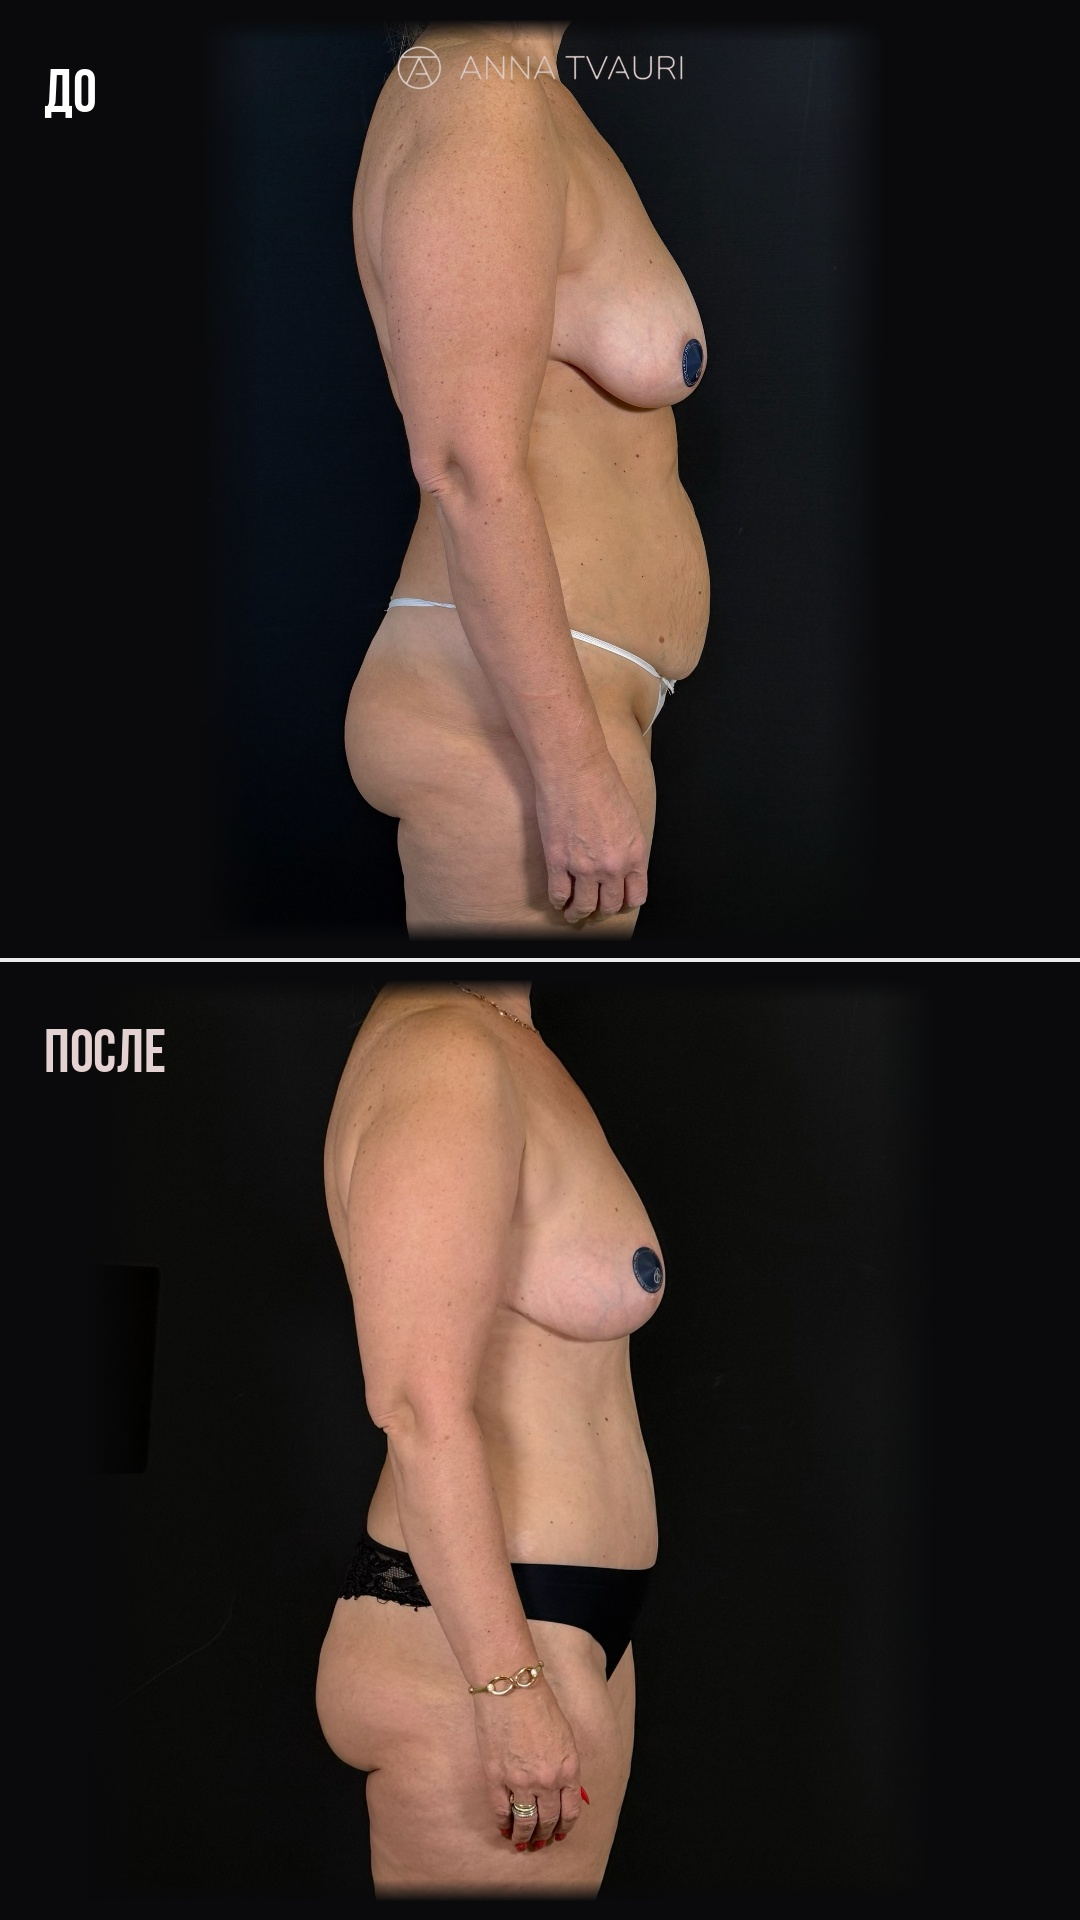
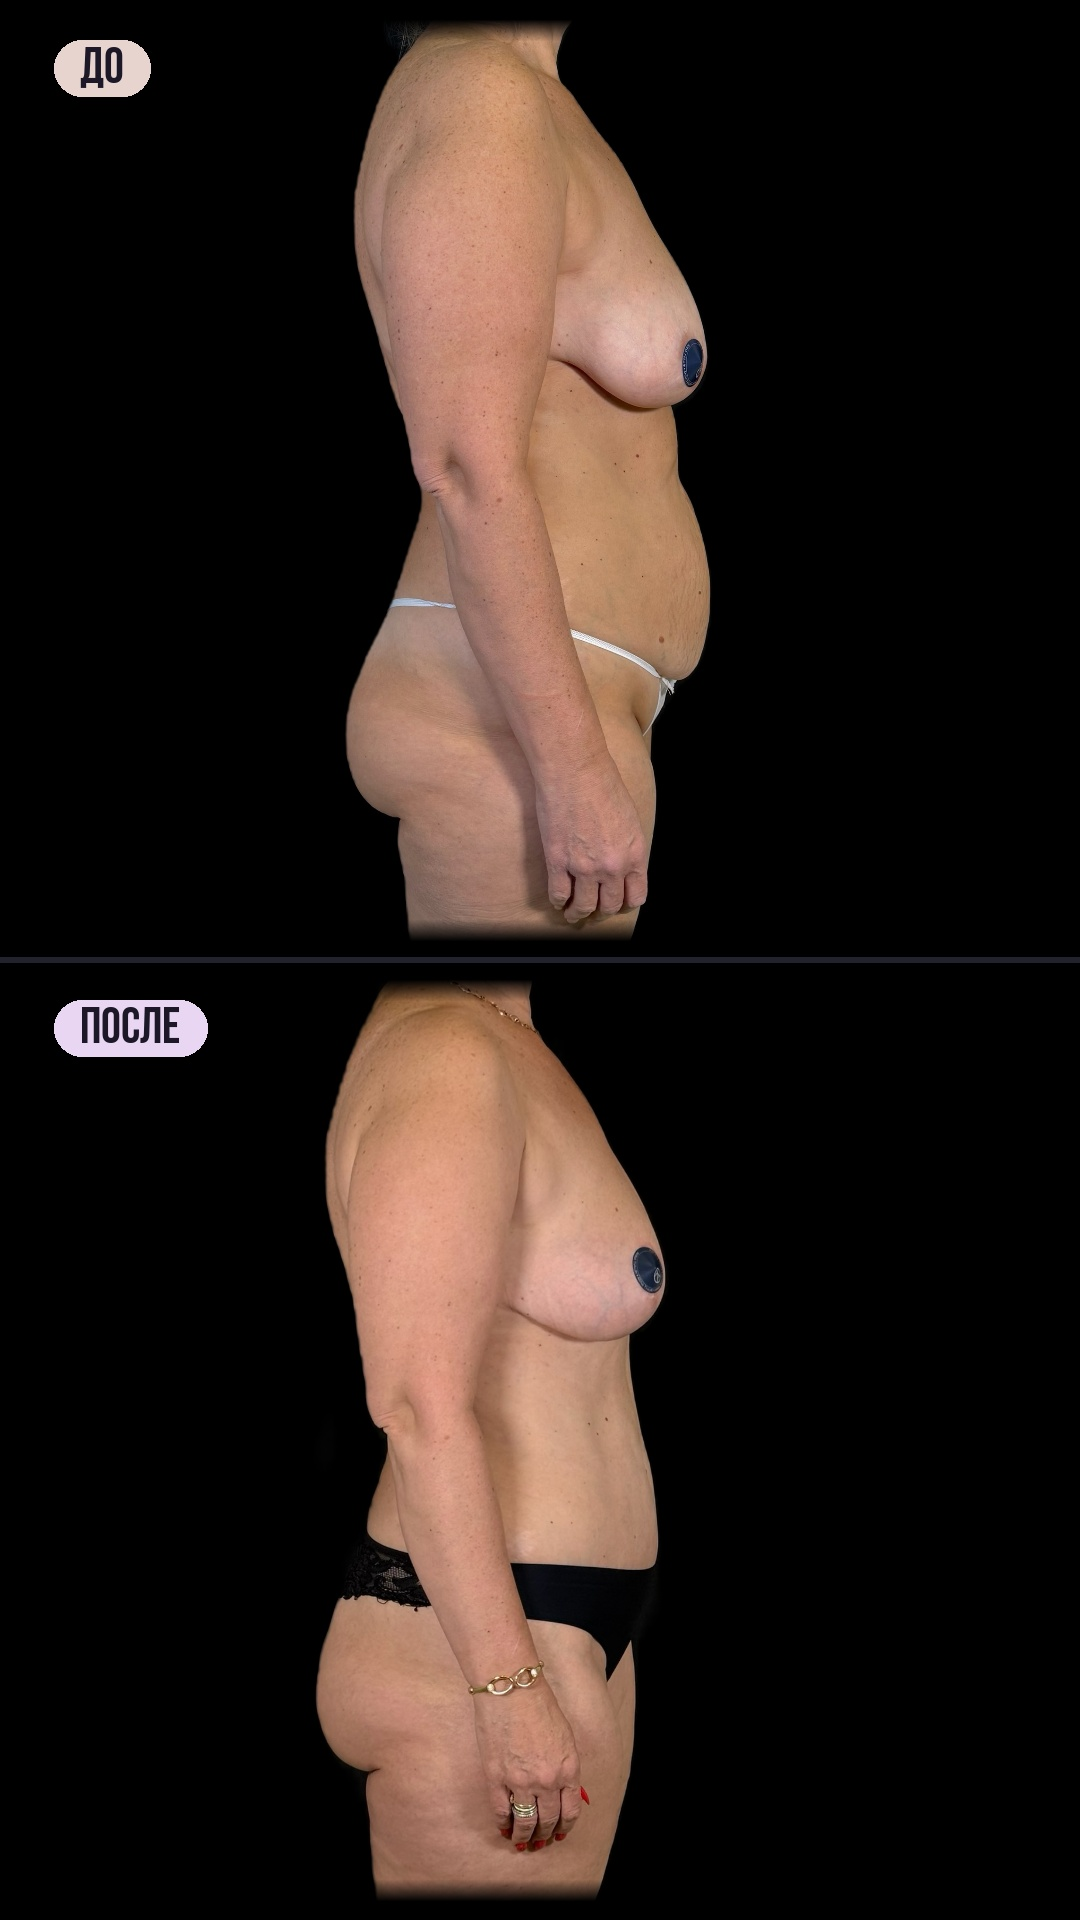
Body collages: background cut to black, dark divider, label pills as in the example
Claude-Session: https://claude.ai/code/session_01WwhZiMgoJM3MQocuuEgczm

diff --git a/tools/collage_body_do_po.py b/tools/collage_body_do_po.py
@@ -8,23 +8,28 @@ W, H, HALF = 1080, 1920, 960
 SPAN = {"do_f": (262, 1930, 740), "po_f": (8, 1480, 721),
         "do_q": (190, 2080, 721), "po_q": (222, 1850, 721),
         "do_s": (185, 2090, 721), "po_s": (262, 1800, 773)}
-BG = np.float32([10, 10, 12])
+BG = np.float32([0, 0, 0])                                         # pure black, like the example
 def half(name):
     img = np.array(Image.open(f"dl/{name}.jpg").convert("RGB")).astype(np.float32)
+    m = np.load(f"mask_{name}.npy").astype(np.float32)                                 # person mask (mediapipe selfie segmenter)
+    m = cv2.GaussianBlur(np.clip((m - 0.3) / 0.4, 0, 1), (0, 0), 1.5)[..., None]
+    img = img * m                                                                       # wall, floor and baseboard -> black
     top, bot, cx = SPAN[name]; s = 900 / (bot - top)
     M = np.float32([[s, 0, 540 - s * cx], [0, s, 30 - s * top]])
     out = cv2.warpAffine(img, M, (W, HALF), flags=cv2.INTER_AREA, borderValue=tuple(map(float, BG)))
     y = np.arange(HALF, dtype=np.float32)[:, None, None]
     x = np.arange(W, dtype=np.float32)[None, :, None]; xl, xr = 540 - s * cx, 540 + s * (img.shape[1] - cx)
     m = np.clip((y - 30) / 22 + 0.5, 0, 1) * np.clip((930 - y) / 22 + 0.5, 0, 1)        # soft cut at the neck and under the fingertips
-    m = m * np.clip((x - xl) / 60, 0, 1) * np.clip((xr - x) / 60, 0, 1)                  # photo edges melt into the black
+
     return out * m + BG * (1 - m)
+def pill(d, x, y, txt, col):                                                       # label pill as in the example
+    f = osw(50); tw = f.getlength(txt); h = 56; w = int(tw + 52)
+    d.rounded_rectangle((x, y, x + w, y + h), radius=h // 2, fill=col)
+    d.text((x + w / 2, y + h / 2 + 2), txt, font=f, fill=(28, 24, 40), anchor="mm")
 LOGO = Image.open("logo_clean.png").convert("RGBA"); LOGO = LOGO.resize((300, int(LOGO.size[1] * 300 / LOGO.size[0])), Image.LANCZOS)
 for ang in ("f", "q", "s"):
     fr = np.concatenate([half(f"do_{ang}"), half(f"po_{ang}")], 0)
-    fr[HALF - 2:HALF + 2] = 235                                                      # thin divider
-    im = Image.fromarray(np.clip(fr, 0, 255).astype(np.uint8)); d = ImageDraw.Draw(im); f = osw(60)
-    d.text((44, 60 + 52), "ДО", font=f, fill=(255, 255, 255), anchor="ls")
-    d.text((44, HALF + 60 + 52), "ПОСЛЕ", font=f, fill=(228, 210, 210), anchor="ls")
-    im.paste(LOGO, ((W - LOGO.size[0]) // 2, 40), LOGO)
+    fr[HALF - 3:HALF + 3] = (34, 34, 44)                                              # thin dark divider instead of the white line
+    im = Image.fromarray(np.clip(fr, 0, 255).astype(np.uint8)); d = ImageDraw.Draw(im)
+    pill(d, 54, 40, "ДО", (232, 212, 206)); pill(d, 54, HALF + 40, "ПОСЛЕ", (233, 214, 242))
     im.save(f"collage_{ang}.jpg", quality=95)
